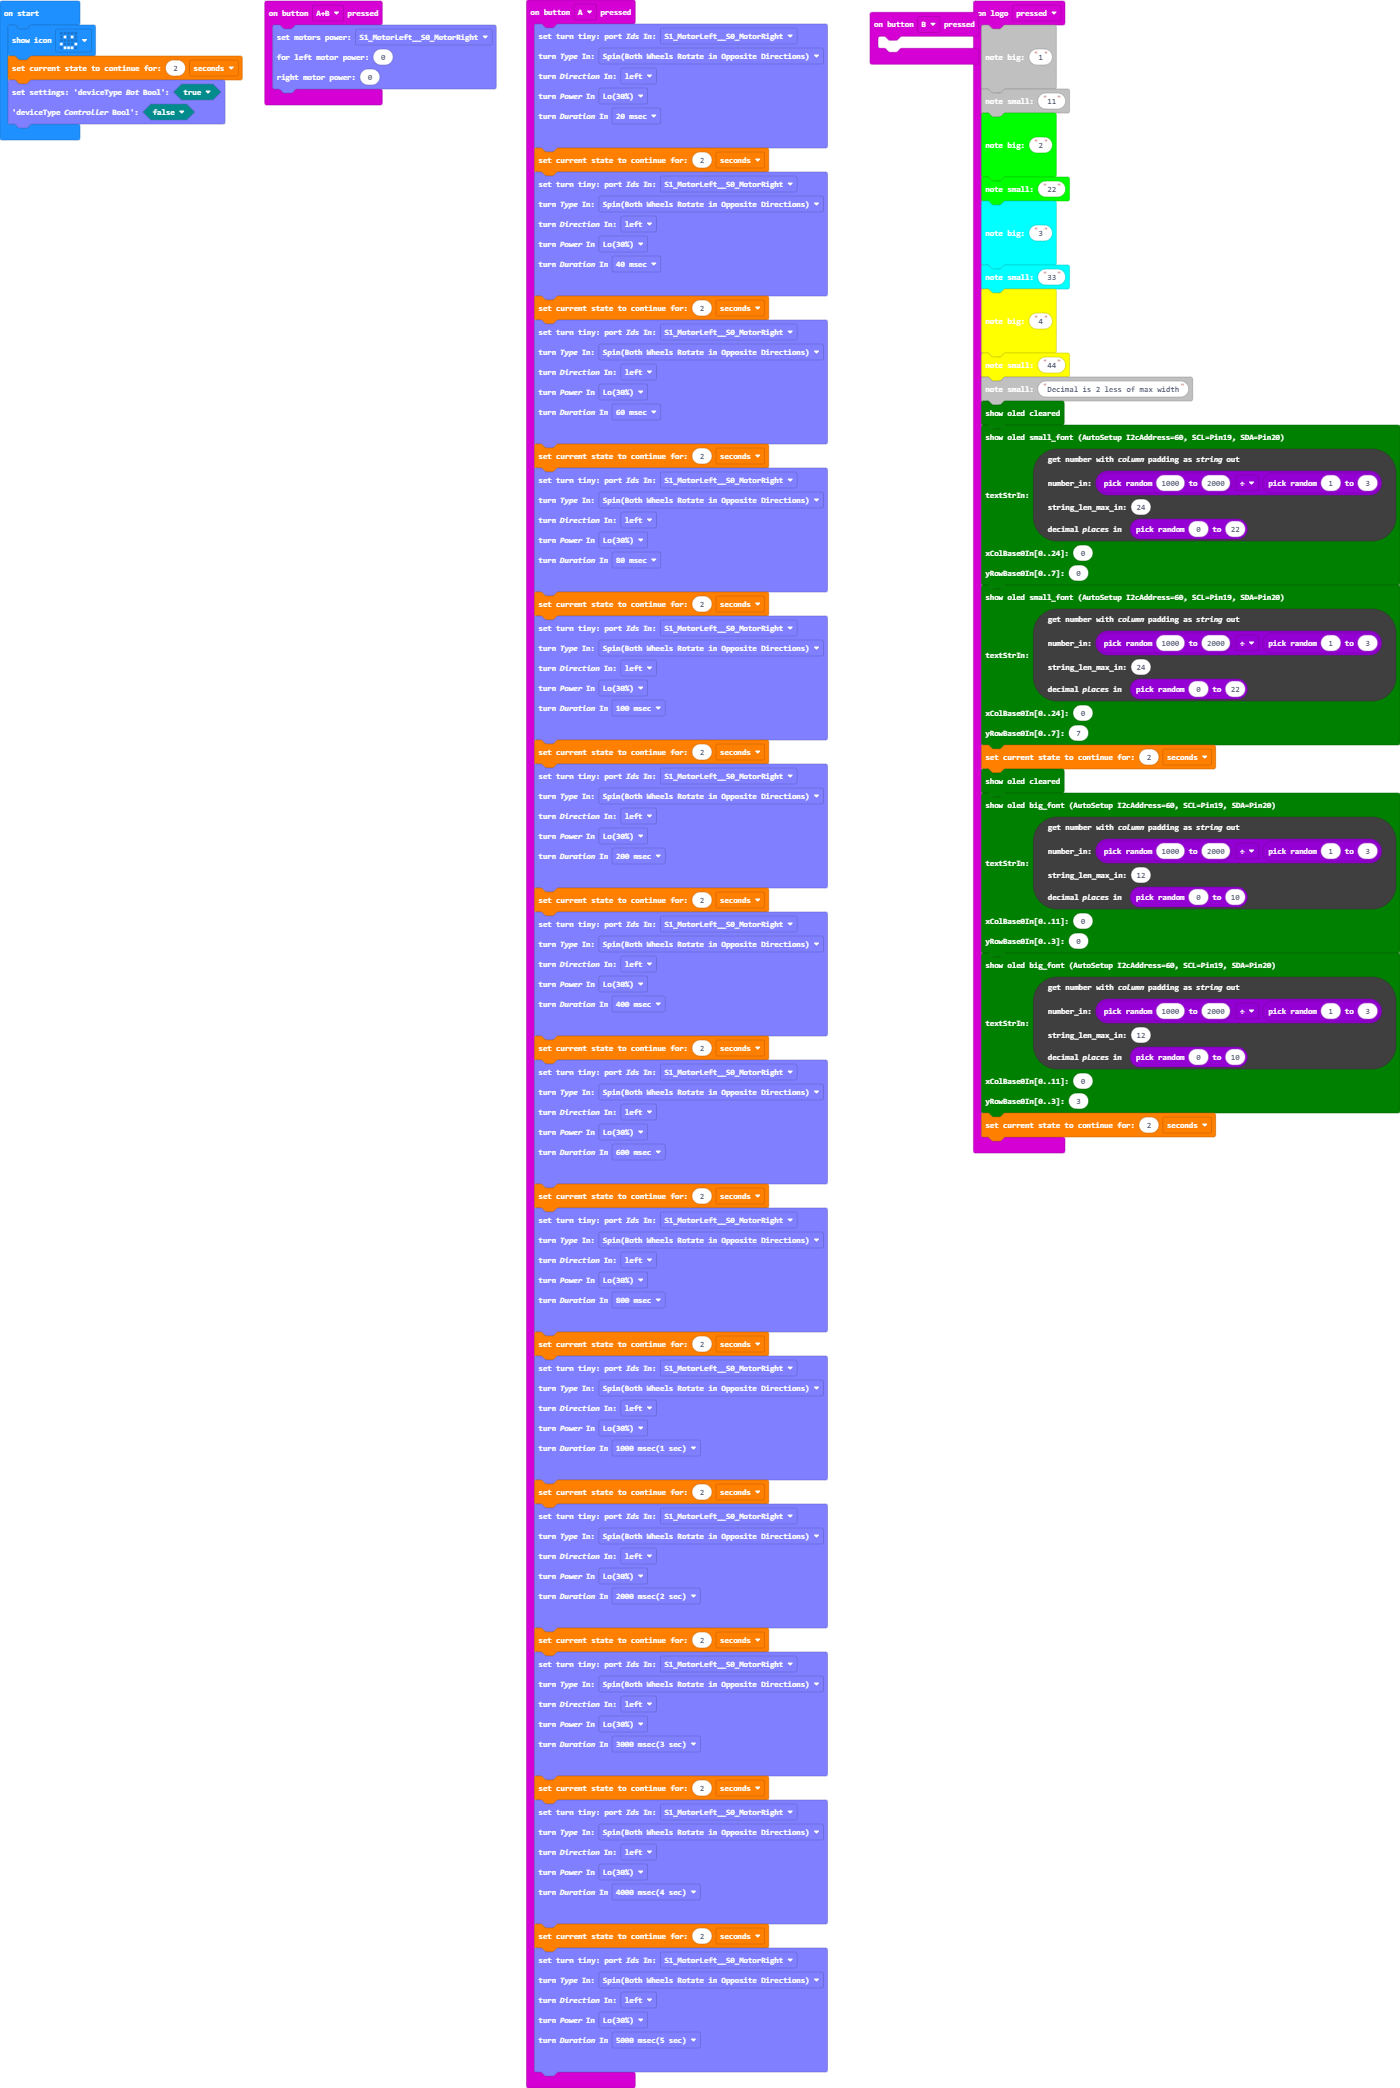
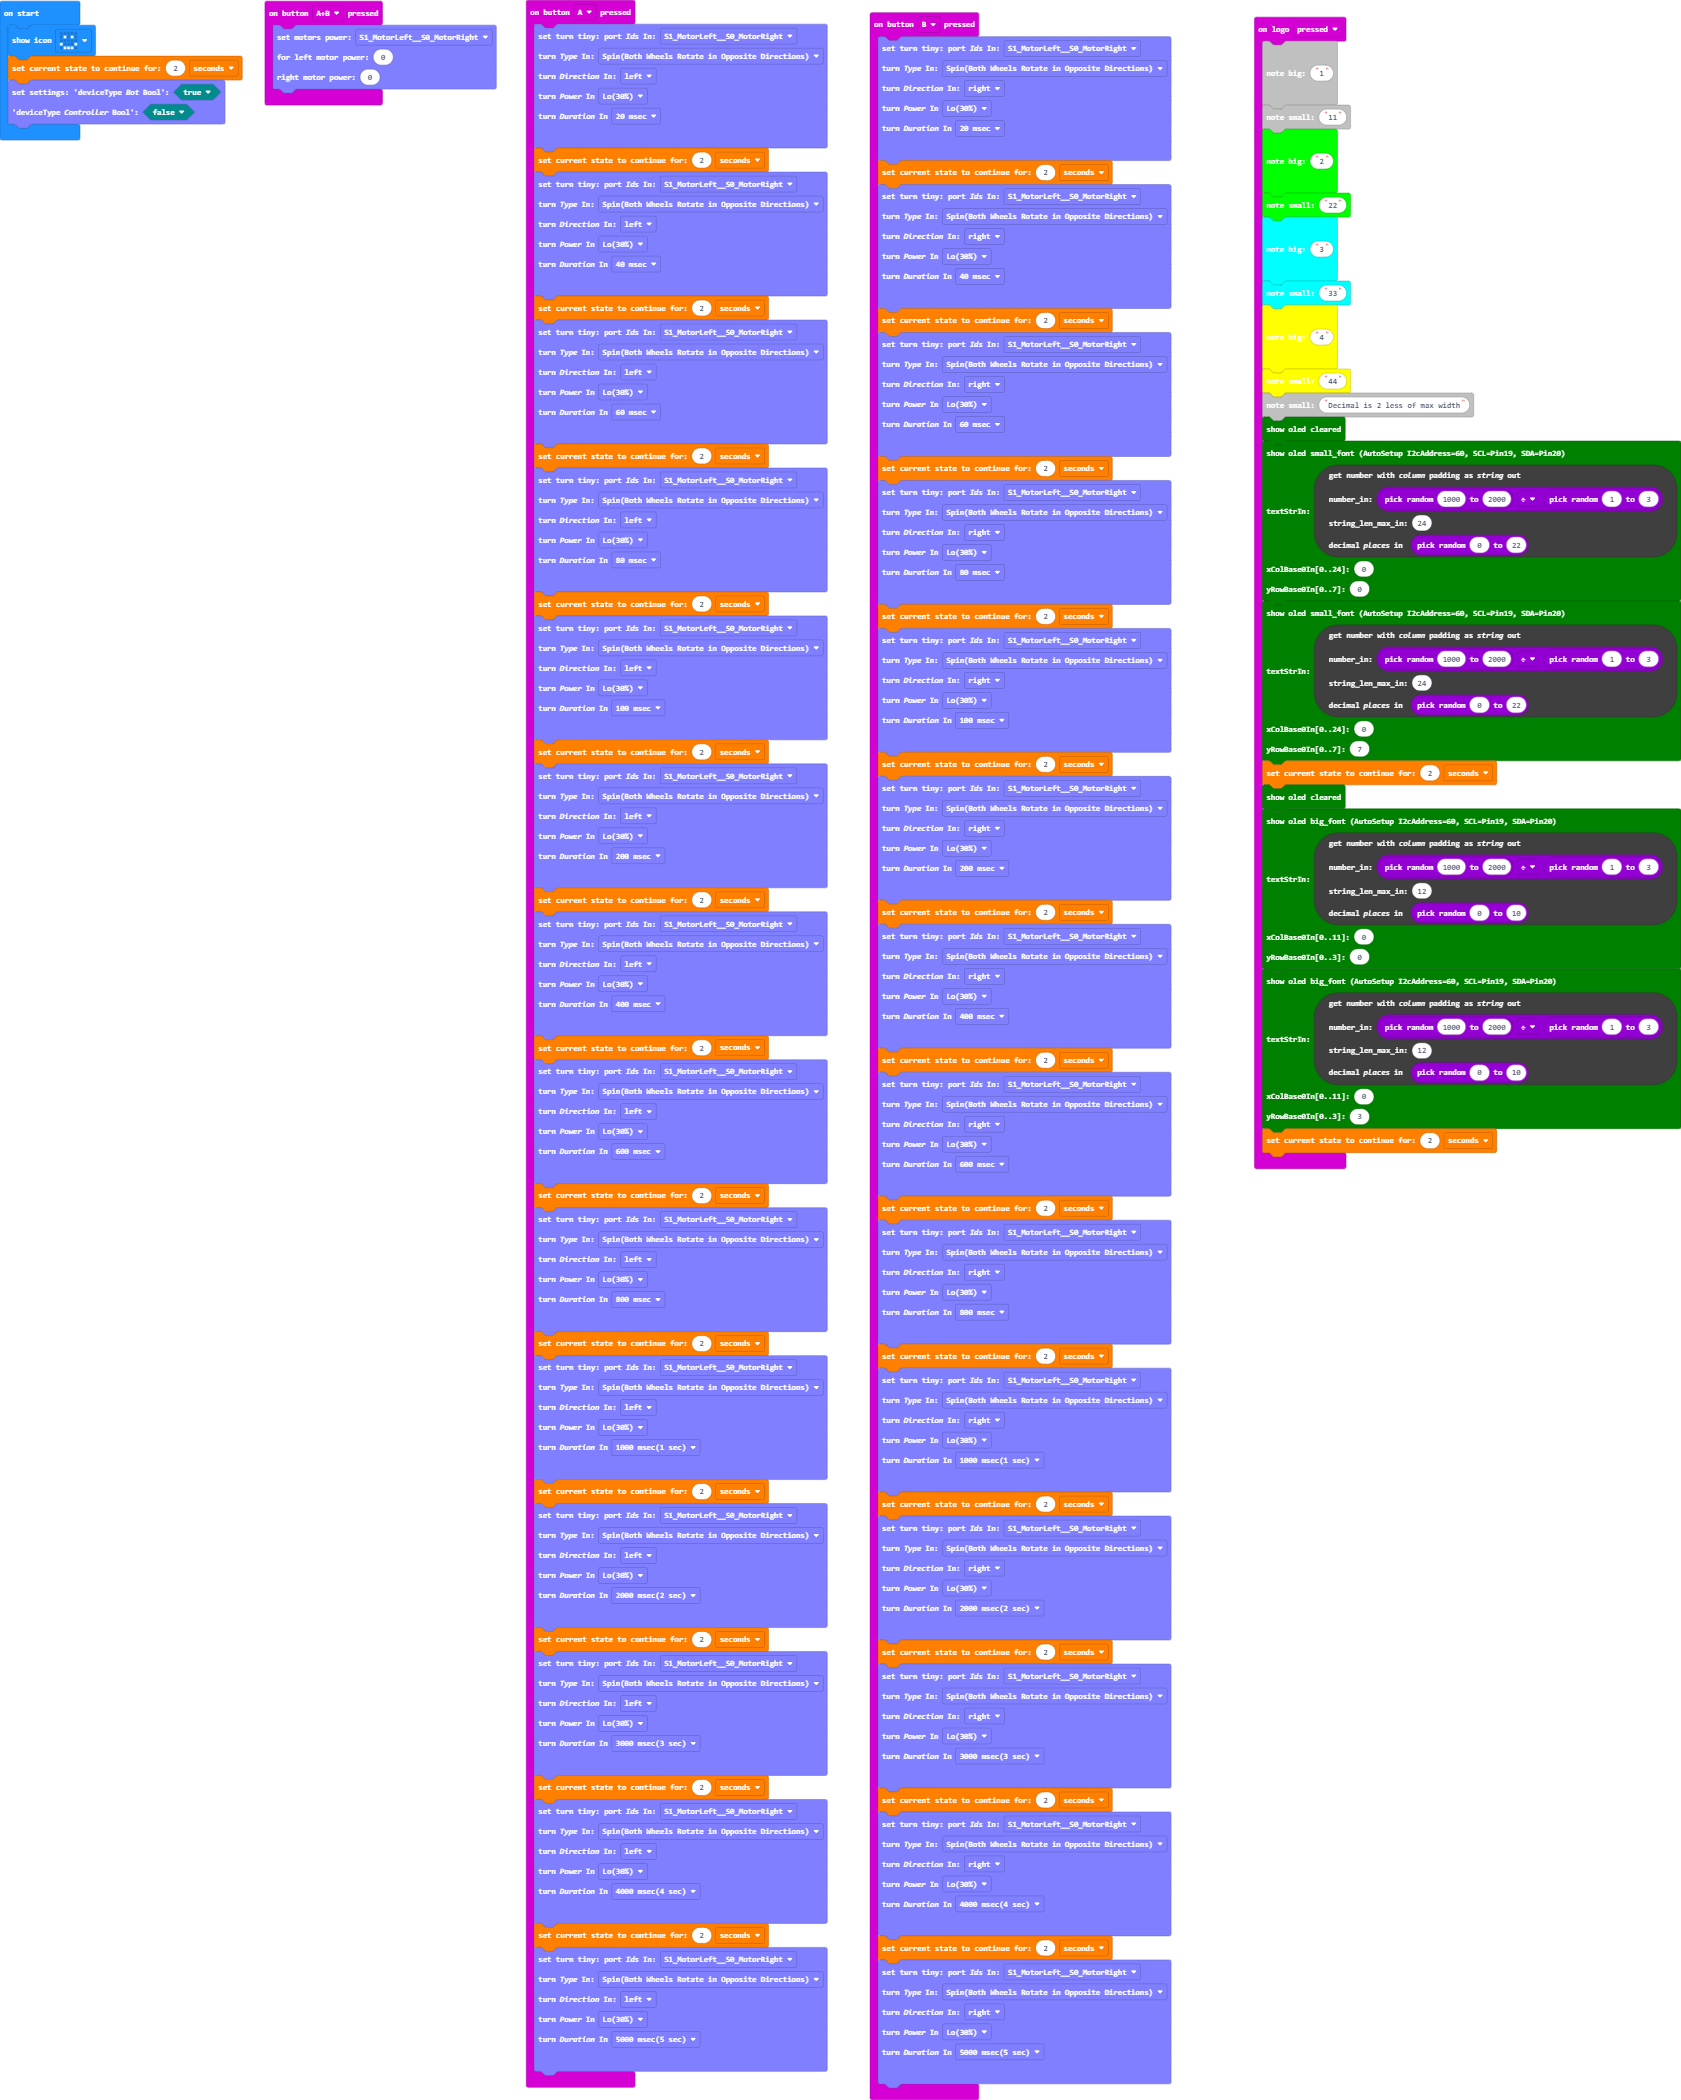
23-0226-0750 Important Note

diff --git a/main.ts b/main.ts
@@ -120,115 +120,115 @@ input.onButtonPressed(Button.AB, function () {
 })
 input.onButtonPressed(Button.B, function () {
     quest_Hardware.rq_Set_Turn_Fn(
-        rq_PortGroup_BlueRedBlack_PortIds_Enum.S1_MotorLeft__S0_MotorRight,
-        turn_Type_Enum.Spin,
-        turn_Direction_Enum.right,
-        turn_Power_Enum.Lo,
-        turn_Duration_Enum.msec_20
+    rq_PortGroup_BlueRedBlack_PortIds_Enum.S1_MotorLeft__S0_MotorRight,
+    turn_Type_Enum.Spin,
+    turn_Direction_Enum.right,
+    turn_Power_Enum.Lo,
+    turn_Duration_Enum.msec_20
     )
     quest_Timer.rq_Set_ContinueCurrentState_CountdownTimer_Fn(2, rq_Time_Units_Enum.Seconds)
     quest_Hardware.rq_Set_Turn_Fn(
-        rq_PortGroup_BlueRedBlack_PortIds_Enum.S1_MotorLeft__S0_MotorRight,
-        turn_Type_Enum.Spin,
-        turn_Direction_Enum.right,
-        turn_Power_Enum.Lo,
-        turn_Duration_Enum.msec_40
+    rq_PortGroup_BlueRedBlack_PortIds_Enum.S1_MotorLeft__S0_MotorRight,
+    turn_Type_Enum.Spin,
+    turn_Direction_Enum.right,
+    turn_Power_Enum.Lo,
+    turn_Duration_Enum.msec_40
     )
     quest_Timer.rq_Set_ContinueCurrentState_CountdownTimer_Fn(2, rq_Time_Units_Enum.Seconds)
     quest_Hardware.rq_Set_Turn_Fn(
-        rq_PortGroup_BlueRedBlack_PortIds_Enum.S1_MotorLeft__S0_MotorRight,
-        turn_Type_Enum.Spin,
-        turn_Direction_Enum.right,
-        turn_Power_Enum.Lo,
-        turn_Duration_Enum.msec_60
+    rq_PortGroup_BlueRedBlack_PortIds_Enum.S1_MotorLeft__S0_MotorRight,
+    turn_Type_Enum.Spin,
+    turn_Direction_Enum.right,
+    turn_Power_Enum.Lo,
+    turn_Duration_Enum.msec_60
     )
     quest_Timer.rq_Set_ContinueCurrentState_CountdownTimer_Fn(2, rq_Time_Units_Enum.Seconds)
     quest_Hardware.rq_Set_Turn_Fn(
-        rq_PortGroup_BlueRedBlack_PortIds_Enum.S1_MotorLeft__S0_MotorRight,
-        turn_Type_Enum.Spin,
-        turn_Direction_Enum.right,
-        turn_Power_Enum.Lo,
-        turn_Duration_Enum.msec_80
+    rq_PortGroup_BlueRedBlack_PortIds_Enum.S1_MotorLeft__S0_MotorRight,
+    turn_Type_Enum.Spin,
+    turn_Direction_Enum.right,
+    turn_Power_Enum.Lo,
+    turn_Duration_Enum.msec_80
     )
     quest_Timer.rq_Set_ContinueCurrentState_CountdownTimer_Fn(2, rq_Time_Units_Enum.Seconds)
     quest_Hardware.rq_Set_Turn_Fn(
-        rq_PortGroup_BlueRedBlack_PortIds_Enum.S1_MotorLeft__S0_MotorRight,
-        turn_Type_Enum.Spin,
-        turn_Direction_Enum.right,
-        turn_Power_Enum.Lo,
-        turn_Duration_Enum.msec_100
+    rq_PortGroup_BlueRedBlack_PortIds_Enum.S1_MotorLeft__S0_MotorRight,
+    turn_Type_Enum.Spin,
+    turn_Direction_Enum.right,
+    turn_Power_Enum.Lo,
+    turn_Duration_Enum.msec_100
     )
     quest_Timer.rq_Set_ContinueCurrentState_CountdownTimer_Fn(2, rq_Time_Units_Enum.Seconds)
     quest_Hardware.rq_Set_Turn_Fn(
-        rq_PortGroup_BlueRedBlack_PortIds_Enum.S1_MotorLeft__S0_MotorRight,
-        turn_Type_Enum.Spin,
-        turn_Direction_Enum.right,
-        turn_Power_Enum.Lo,
-        turn_Duration_Enum.msec_200
+    rq_PortGroup_BlueRedBlack_PortIds_Enum.S1_MotorLeft__S0_MotorRight,
+    turn_Type_Enum.Spin,
+    turn_Direction_Enum.right,
+    turn_Power_Enum.Lo,
+    turn_Duration_Enum.msec_200
     )
     quest_Timer.rq_Set_ContinueCurrentState_CountdownTimer_Fn(2, rq_Time_Units_Enum.Seconds)
     quest_Hardware.rq_Set_Turn_Fn(
-        rq_PortGroup_BlueRedBlack_PortIds_Enum.S1_MotorLeft__S0_MotorRight,
-        turn_Type_Enum.Spin,
-        turn_Direction_Enum.right,
-        turn_Power_Enum.Lo,
-        turn_Duration_Enum.msec_400
+    rq_PortGroup_BlueRedBlack_PortIds_Enum.S1_MotorLeft__S0_MotorRight,
+    turn_Type_Enum.Spin,
+    turn_Direction_Enum.right,
+    turn_Power_Enum.Lo,
+    turn_Duration_Enum.msec_400
     )
     quest_Timer.rq_Set_ContinueCurrentState_CountdownTimer_Fn(2, rq_Time_Units_Enum.Seconds)
     quest_Hardware.rq_Set_Turn_Fn(
-        rq_PortGroup_BlueRedBlack_PortIds_Enum.S1_MotorLeft__S0_MotorRight,
-        turn_Type_Enum.Spin,
-        turn_Direction_Enum.right,
-        turn_Power_Enum.Lo,
-        turn_Duration_Enum.msec_600
+    rq_PortGroup_BlueRedBlack_PortIds_Enum.S1_MotorLeft__S0_MotorRight,
+    turn_Type_Enum.Spin,
+    turn_Direction_Enum.right,
+    turn_Power_Enum.Lo,
+    turn_Duration_Enum.msec_600
     )
     quest_Timer.rq_Set_ContinueCurrentState_CountdownTimer_Fn(2, rq_Time_Units_Enum.Seconds)
     quest_Hardware.rq_Set_Turn_Fn(
-        rq_PortGroup_BlueRedBlack_PortIds_Enum.S1_MotorLeft__S0_MotorRight,
-        turn_Type_Enum.Spin,
-        turn_Direction_Enum.right,
-        turn_Power_Enum.Lo,
-        turn_Duration_Enum.msec_800
+    rq_PortGroup_BlueRedBlack_PortIds_Enum.S1_MotorLeft__S0_MotorRight,
+    turn_Type_Enum.Spin,
+    turn_Direction_Enum.right,
+    turn_Power_Enum.Lo,
+    turn_Duration_Enum.msec_800
     )
     quest_Timer.rq_Set_ContinueCurrentState_CountdownTimer_Fn(2, rq_Time_Units_Enum.Seconds)
     quest_Hardware.rq_Set_Turn_Fn(
-        rq_PortGroup_BlueRedBlack_PortIds_Enum.S1_MotorLeft__S0_MotorRight,
-        turn_Type_Enum.Spin,
-        turn_Direction_Enum.right,
-        turn_Power_Enum.Lo,
-        turn_Duration_Enum.msec_1000
+    rq_PortGroup_BlueRedBlack_PortIds_Enum.S1_MotorLeft__S0_MotorRight,
+    turn_Type_Enum.Spin,
+    turn_Direction_Enum.right,
+    turn_Power_Enum.Lo,
+    turn_Duration_Enum.msec_1000
     )
     quest_Timer.rq_Set_ContinueCurrentState_CountdownTimer_Fn(2, rq_Time_Units_Enum.Seconds)
     quest_Hardware.rq_Set_Turn_Fn(
-        rq_PortGroup_BlueRedBlack_PortIds_Enum.S1_MotorLeft__S0_MotorRight,
-        turn_Type_Enum.Spin,
-        turn_Direction_Enum.right,
-        turn_Power_Enum.Lo,
-        turn_Duration_Enum.msec_2000
+    rq_PortGroup_BlueRedBlack_PortIds_Enum.S1_MotorLeft__S0_MotorRight,
+    turn_Type_Enum.Spin,
+    turn_Direction_Enum.right,
+    turn_Power_Enum.Lo,
+    turn_Duration_Enum.msec_2000
     )
     quest_Timer.rq_Set_ContinueCurrentState_CountdownTimer_Fn(2, rq_Time_Units_Enum.Seconds)
     quest_Hardware.rq_Set_Turn_Fn(
-        rq_PortGroup_BlueRedBlack_PortIds_Enum.S1_MotorLeft__S0_MotorRight,
-        turn_Type_Enum.Spin,
-        turn_Direction_Enum.right,
-        turn_Power_Enum.Lo,
-        turn_Duration_Enum.msec_3000
+    rq_PortGroup_BlueRedBlack_PortIds_Enum.S1_MotorLeft__S0_MotorRight,
+    turn_Type_Enum.Spin,
+    turn_Direction_Enum.right,
+    turn_Power_Enum.Lo,
+    turn_Duration_Enum.msec_3000
     )
     quest_Timer.rq_Set_ContinueCurrentState_CountdownTimer_Fn(2, rq_Time_Units_Enum.Seconds)
     quest_Hardware.rq_Set_Turn_Fn(
-        rq_PortGroup_BlueRedBlack_PortIds_Enum.S1_MotorLeft__S0_MotorRight,
-        turn_Type_Enum.Spin,
-        turn_Direction_Enum.right,
-        turn_Power_Enum.Lo,
-        turn_Duration_Enum.msec_4000
+    rq_PortGroup_BlueRedBlack_PortIds_Enum.S1_MotorLeft__S0_MotorRight,
+    turn_Type_Enum.Spin,
+    turn_Direction_Enum.right,
+    turn_Power_Enum.Lo,
+    turn_Duration_Enum.msec_4000
     )
     quest_Timer.rq_Set_ContinueCurrentState_CountdownTimer_Fn(2, rq_Time_Units_Enum.Seconds)
     quest_Hardware.rq_Set_Turn_Fn(
-        rq_PortGroup_BlueRedBlack_PortIds_Enum.S1_MotorLeft__S0_MotorRight,
-        turn_Type_Enum.Spin,
-        turn_Direction_Enum.right,
-        turn_Power_Enum.Lo,
-        turn_Duration_Enum.msec_5000
+    rq_PortGroup_BlueRedBlack_PortIds_Enum.S1_MotorLeft__S0_MotorRight,
+    turn_Type_Enum.Spin,
+    turn_Direction_Enum.right,
+    turn_Power_Enum.Lo,
+    turn_Duration_Enum.msec_5000
     )
 })
 input.onLogoEvent(TouchButtonEvent.Pressed, function () {

diff --git a/custom.ts b/custom.ts
@@ -20,7 +20,7 @@
 // * For full/complete upload to Github, press 'Github' button 
 //   ** while in any file within JavaScript mode, not 'Blocks' mode
 // * Note any edits is saved real-time since a cloud-editor, even before Github upload
-//
+// * TYJ 1 sec spin ~ 45 deg, 2 sec spin ~ 90 deg, 2 sec spin ~ 180, 4 sec spin ~ 360, thus sufficient to max 5 sec spin
 
 // enum MyEnum {
 //    //% block="one"
